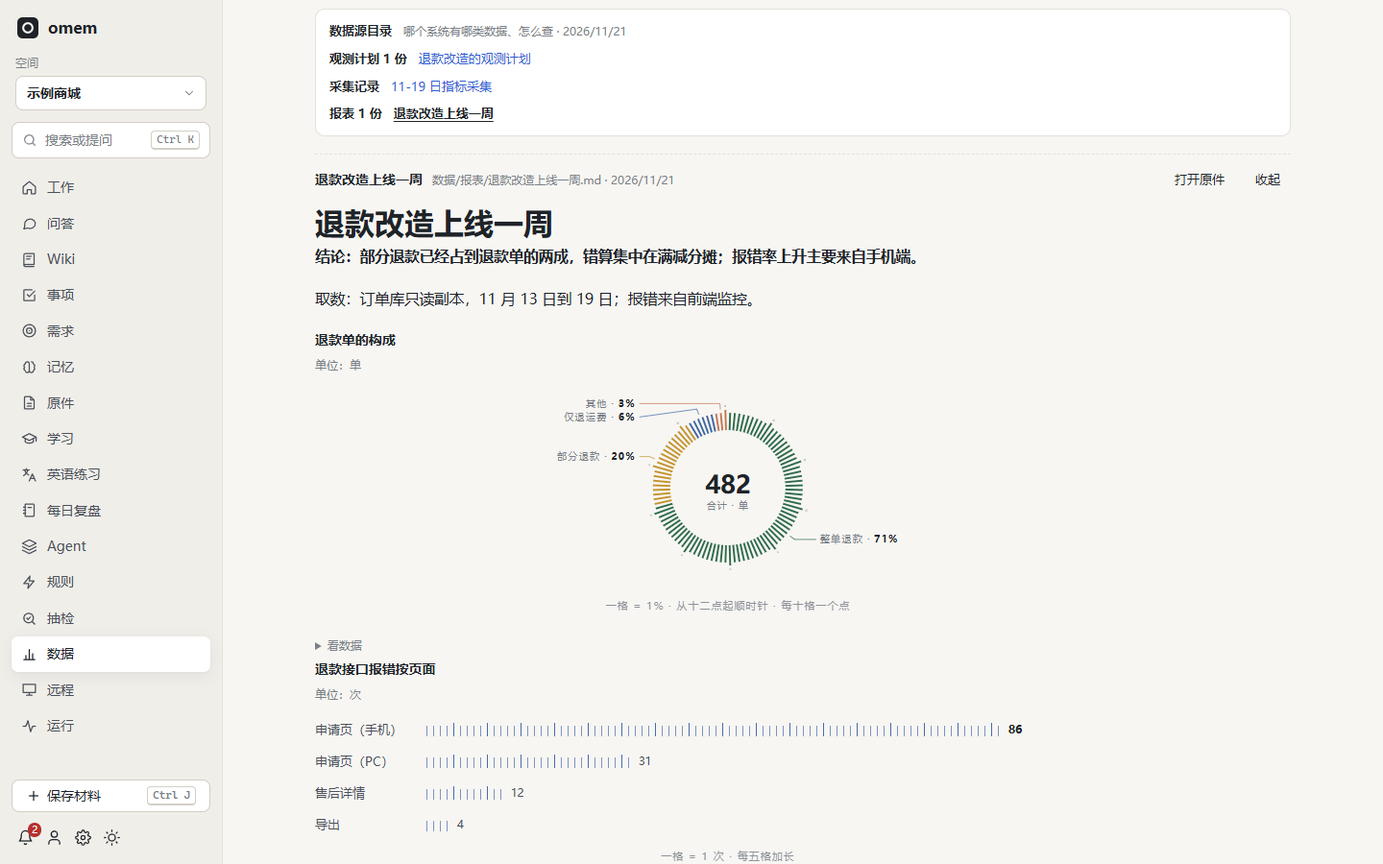
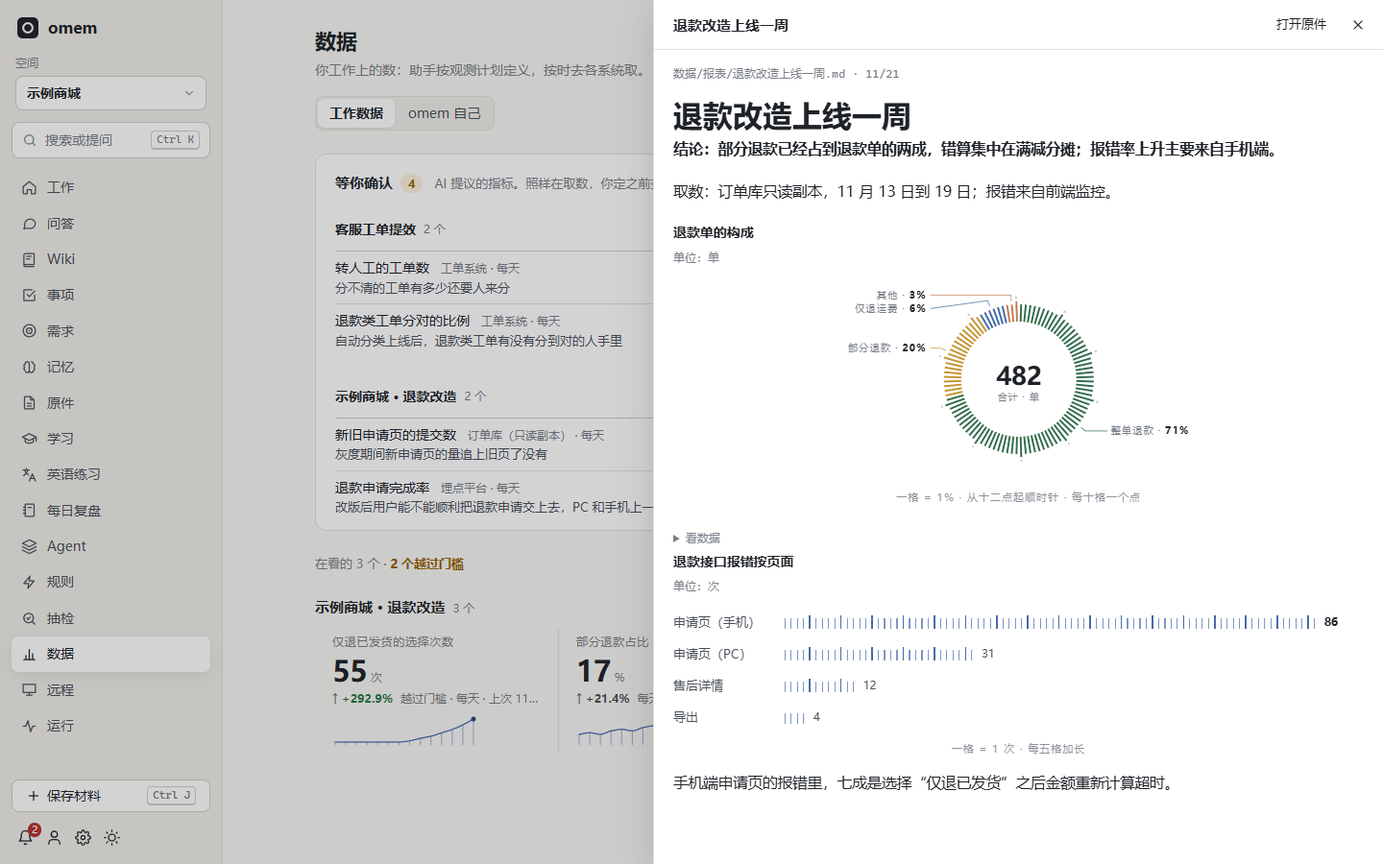
数据页：文档、截图和窄屏细节
- 文档站“数据”一页、README、状态表、变更记录、omem-design 按新的页面骨架、等你确认清单、抽屉和格子写法改。
- 截图 insights、insights-work、insights-report 重拍，新增 insights-detail（抽屉）；报表的截图改为从页头的“报表”打开抽屉。
- 资料链接之间的“·”不再算进按钮的名字；提议清单的行更紧凑，窄屏下组的操作和行的操作左对齐。

diff --git a/scripts/doc-screens.ts b/scripts/doc-screens.ts
@@ -996,28 +996,28 @@ const shots: { name: string; path: string; width?: number; dark?: boolean; space
     await p.waitForTimeout(400);
   } },
   { name: "insights", path: "/insights?tab=omem", space: "personal" },
-  // A proposal opened: its chart by device, why it exists, where it came from, 保留 / 改 / 不要.
+  // One number opened in the drawer: by day, split by scene / space / model / who, then its records.
+  { name: "insights-detail", path: "/insights?tab=omem&detail=usage%3Atotal", space: "personal", prepare: async (p) => {
+    await p.locator(".sheet .splits").waitFor();
+    await p.waitForTimeout(600);
+  } },
+  // The proposals to decide, by line; one opened: its chart by device, why it exists, where it came from, 保留 / 改 / 不要.
   { name: "insights-work", path: "/insights?tab=work", space: "shop", prepare: async (p) => {
-    await p.getByRole("button", { name: /退款申请完成率/ }).click();
+    await p.locator("button.c-name", { hasText: "退款申请完成率" }).click();
     await p.waitForTimeout(900);
-    await p.locator(".group").first().evaluate((el) => {
+    await p.locator(".c-row.on").evaluate((row) => {
+      const el = row.closest(".c-group") ?? row;
       let s: HTMLElement | null = el.parentElement;
       while (s && !(s.scrollHeight > s.clientHeight && /auto|scroll/.test(getComputedStyle(s).overflowY))) s = s.parentElement;
-      const box = el.getBoundingClientRect();
-      (s ?? document.scrollingElement)?.scrollBy(0, box.top - 24);
+      (s ?? document.scrollingElement)?.scrollBy(0, el.getBoundingClientRect().top - 24);
     });
     await p.waitForTimeout(300);
   } },
-  // A report the assistant wrote (a work file under 数据/报表/), its two charts drawn on the page.
+  // A report the assistant wrote (a work file under 数据/报表/), its two charts drawn in the drawer.
   { name: "insights-report", path: "/insights?tab=work", space: "shop", prepare: async (p) => {
-    await p.getByRole("button", { name: "退款改造上线一周" }).click();
+    await p.getByRole("button", { name: /报表/ }).click();
+    await p.locator(".sheet .prose").waitFor();
     await p.waitForTimeout(1200);
-    await p.locator(".report").evaluate((el) => {
-      let s: HTMLElement | null = el.parentElement;
-      while (s && !(s.scrollHeight > s.clientHeight && /auto|scroll/.test(getComputedStyle(s).overflowY))) s = s.parentElement;
-      (s ?? document.scrollingElement)?.scrollBy(0, el.getBoundingClientRect().top - 160);
-    });
-    await p.waitForTimeout(300);
   } },
   { name: "ask-citations", path: `/ask/${t.id}` },
   { name: "wiki-tree", path: "/wiki/shop/refund/cases/partial-shipment-over-refund" },

diff --git a/web/src/components/MetricsBoard.vue b/web/src/components/MetricsBoard.vue
@@ -255,9 +255,9 @@ async function keepAll() {
 a.c-line:hover { text-decoration: underline; text-underline-offset: 3px; }
 .grow { flex: 1; }
 .c-rows { list-style: none; margin: 0; padding: 0; }
-.c-row { display: grid; grid-template-columns: minmax(0, 1fr) 6.5em auto; align-items: center; column-gap: 16px; padding: 8px 0; border-bottom: 1px solid var(--line); min-width: 0; }
+.c-row { display: grid; grid-template-columns: minmax(0, 1fr) 6.5em auto; align-items: center; column-gap: 16px; padding: 6px 0; border-bottom: 1px solid var(--line); min-width: 0; }
 .c-row:last-child { border-bottom: 0; }
-.c-main { display: grid; gap: 2px; min-width: 0; }
+.c-main { display: grid; gap: 0; min-width: 0; line-height: 1.55; }
 .c-main p { margin: 0; }
 .c-top { display: flex; align-items: baseline; gap: 12px; min-width: 0; }
 .c-name { flex: 0 1 auto; font: inherit; font-size: 14px; color: var(--ink); background: none; border: 0; padding: 0; text-align: left; cursor: pointer; min-width: 0; overflow: hidden; text-overflow: ellipsis; white-space: nowrap; }
@@ -283,7 +283,7 @@ a.c-line:hover { text-decoration: underline; text-underline-offset: 3px; }
 @media (max-width: 760px) {
   .confirm { padding: 12px 12px 4px; }
   .c-row { grid-template-columns: minmax(0, 1fr) auto; row-gap: 4px; }
-  .c-acts { grid-column: 1 / -1; }
+  .c-acts { grid-column: 1 / -1; margin-left: -8px; }
   .c-group-head .grow { flex-basis: 100%; height: 0; }
   .c-group-head .btn:first-of-type { margin-left: -8px; }
 

diff --git a/web/src/components/MetricFiles.vue b/web/src/components/MetricFiles.vue
@@ -113,7 +113,7 @@ onBeforeUnmount(() => window.removeEventListener("keydown", onKey));
 
 <style scoped>
 .files { display: flex; flex-wrap: wrap; align-items: baseline; gap: 4px 0; font-size: 13px; color: var(--muted); min-width: 0; }
-.files > * + *::before { content: "·"; margin: 0 8px; color: var(--muted); }
+.files > * + *::before { content: "·" / ""; margin: 0 8px; color: var(--muted); }
 .files a, .link { color: var(--ink-2); text-decoration: none; }
 .link { font: inherit; background: none; border: 0; padding: 0; cursor: pointer; }
 .files a:hover, .link:hover { color: var(--ink); text-decoration: underline; text-underline-offset: 3px; }

diff --git a/site/features/insights.md b/site/features/insights.md
@@ -13,11 +13,13 @@
 
 再往后是“课题”：期间有已交结果的试验时，显示按课题的四种试验结果、新发现及本人的判定、其中有改动的和改后重跑通过或仍然失败的、结束方向和按模型的试验运行次数，数字可回到运行或事项，导出也包含。发现多少不代表做得好坏，不做排名或发现率；按模型等运行条件筛选时，省略不能归属的发现和方向。
 
-页面依次是：用了多少、用在哪、替你挡了多少、给别人带来什么、做得怎么样、编码交付、流程（有走流程的事项时）、课题（期间有试验时）、知识用上了没有、花了多少时间。每一块上面是几个数，下面是按场景、空间、Agent 等分开的条形，几列同单位的数并排成不同颜色的条；每块末尾的“这些数是怎么数的”写明口径。每天任务按场景叠加，每周人数分本人、成员、访客与机器人。后台整理是系统维护知识的工作，定时巡检里没有新动静、安静结束的那些也算在这里；它们默认单列，不计入使用和成本合计；可以打开“包含后台整理”。成功率始终排除整理，只算已完成或失败的运行。
+时间段、和上一段比、筛选、导出在两栏切换的同一行右侧。下面先是四个最关键的数（做了多少件、成功率、用过的人、提醒或替你答了），再是一排可以粘在顶部的节：用量、提醒、回答、编码与流程、知识、运行时长、长期走势，点一个跳过去。每节里依次是：用了多少、用在哪、替你挡了多少、给别人带来什么、做得怎么样、编码交付、流程（有走流程的事项时）、课题（期间有试验时）、知识用上了没有、花了多少时间。每一块默认只放最要紧的一两张图、排行的前八行和几个数，其余点“展开这一节”；口径收在“怎么数的”里。每天任务按场景叠加，每周人数分本人、成员、访客与机器人。后台整理是系统维护知识的工作，定时巡检里没有新动静、安静结束的那些也算在这里；它们默认单列，不计入使用和成本合计；可以打开“包含后台整理”。成功率始终排除整理，只算已完成或失败的运行。
 
-<Shot src="insights" caption="数据页：上面一排数，下面是条形和按天的柱，每个数都能点开看是哪些记录" />
+<Shot src="insights" caption="数据页：上面四个关键的数和节导航，每节先放一两张图，其余展开再看" />
 
-每个数字及图表的数据点都能打开“看明细”，核对记录标识、时间与去向。比例的明细列出分母样本，再从清单回到运行或对应列表。不会显示访客的提问和答案正文。主人能看全部；成员只看自己触发或拥有、且有权阅读的运行。不会给人排效率名次。
+点任何一个数或一根条，右侧打开这个数的抽屉：大数字和上一段比变了多少，每天有几条记录，再按场景、Agent、空间、模型、谁触发、在哪个会话、结果拆开（只有一组的不拆）；点拆分里的一行就只看这一组，标成小胶囊，点胶囊去掉。最下面是记录清单，可搜索，每条写时间、谁触发、用了多久、结果，点标题回到运行或对应列表。链接带着这个数和抽屉里的筛选，可以直接发给别人；Esc 关闭，焦点回到点开它的那个数。不会显示访客的提问和答案正文。主人能看全部；成员只看自己触发或拥有、且有权阅读的运行。不会给人排效率名次。
+
+<Shot src="insights-detail" caption="点一个数：按天的记录、按场景和空间等拆开，下面是可搜索的记录" />
 
 ## 工作上的指标
 
@@ -26,17 +28,17 @@
 - 每个指标写清它回答你的什么问题（“部分发货改造上线后，退款接口有没有更容易出错”）、在哪个系统、怎么查（读系统靠你数据目录里的技能），可以挂到事项或关注上，设成按小时、每天或每周自动取；变化超过门槛时告诉你，并写进事项时间线和关注的会话。
 - 需求事项可以有一份观测计划（内置技能 `observation-plan`）：先写下你对这件事真会问的几个问题，再定上线前要埋的点、上线后看哪些报错和使用指标、改版或迁移的新旧对比和护栏指标；计划里的指标定义到事项上，每个都指回计划里的那一节。
 - 助手可以盘点一份数据源目录（内置技能 `data-sources`）：哪个系统有哪类数据、对应哪些产品和服务、怎么查。
-- omem 自己的用量也每天存一份（运行、时长、各 AI、回答被判成什么和谁判的、案例、新会话），原始记录过期以后历史还在；在“omem 自己”一栏最下面的“每天存下的用量”里看曲线。
+- omem 自己的用量也每天存一份（运行、时长、各 AI、回答被判成什么和谁判的、案例、新会话），原始记录过期以后历史还在；在“omem 自己”一栏的“长期走势”里看。一个用量一格（分好几类的数写合计），点开是每天的合计和按类型、结果、经由等各拆一张。
 
 ### 指标从哪来，由你定
 
-你在对话里亲口让助手加的指标直接生效。助手在后台定的（写观测计划、看一条线的时候）只是**提议**：卡片上标“待确认”，页面顶上写“共 N 个指标是 AI 提议的，等你确认”，点它只看待确认的。提议照样按时取数，等你决定时已经有真实的数；但它变化再大也不通知你、不写进时间线。
+你在对话里亲口让助手加的指标直接生效。助手在后台定的（写观测计划、看一条线的时候）只是**提议**：它们都在“工作数据”最上面的“等你确认”清单里，按工作线分组，一行一个指标：名字、从哪个系统取、多久取一次、它想回答什么问题、已经取到的最新值，行尾“保留 / 不要”。组名旁边可以“这一组都保留 / 都不要”，清单顶上有“全部保留”。定完的从清单里消失，留下的出现在下面。提议照样按时取数，等你决定时已经有真实的数；但它变化再大也不通知你、不写进时间线。
 
-点开一个提议，上面一块写着它想回答什么问题，旁边三个按钮：
+点一个提议的名字，在这一行下面展开它的图和定义，右上三个按钮：
 
 - **保留**：从此按门槛告诉你变化。
 - **改**：改名字、单位、它回答的问题、取数频率、门槛、哪个方向是好的、怎么画；提议可以“保存并保留”，也可以只保存先不定。
-- **不要**：不再取数，也不在这里显示。可以写一句为什么，助手以后提指标前会读到你最近留下了哪些、不要了哪些和理由，同一个指标不会再提。
+- **不要**：不再取数，也不在这里显示。可以写一句为什么（一组一起不要时也可以写一句，不写也行），助手以后提指标前会读到你最近留下了哪些、不要了哪些和理由，同一个指标不会再提。
 
 升级到这一版时，以前助手定义的工作指标都没有经过你确认，所以都先变成提议；omem 自己的用量不受影响。
 
@@ -49,17 +51,17 @@
 - 最近一次的构成：画成表盘；
 - 只列数、只看最新的数：不画图。
 
-只有一两天的数时不画几乎空白的线，直接写“只有 1 天的数：11-19 新 1,284 单 / 旧 2,906 单”；还没取过的写清楚从哪个系统、多久取一次、第一次大概什么时候。图下面依次是为什么看、说明、来源、怎么查、取数时间、门槛、挂在哪件事上、来自哪份观测计划（点开是计划里那一段）、是谁定的。
+只有一两天的数时不画几乎空白的线，直接写“只有 1 天的数：11-19 新 1,284 单 / 旧 2,906 单”；还没取过的写清楚从哪个系统、多久取一次、第一次大概什么时候。图在左边，右边依次是为什么看、说明、从哪来、怎么查（长的先收起）、基线和门槛、多久取一次、挂在哪件事上、来自哪份观测计划（点开是计划里那一段）、是谁定的；分维度记的指标，下面按每个维度各拆一张（30 天合计，比例取平均）。分了好几类的计数，格子上和图上都是合计。
 
-<Shot src="insights-work" caption="工作数据：点一个助手提议的指标，下面按它的画法出图，写着它想回答的问题，可以保留、改或不要" />
+<Shot src="insights-work" caption="工作数据：上面是等你确认的提议，按工作线分组；点一个，下面按它的画法出图，右边写着它想回答的问题和从哪来" />
 
 ### 报表：好几张图一起看
 
-要一起看好几张图的分析（新旧对比、构成、排行、表格），助手写成报表：工作文件放在 `数据/报表/` 下，结论在前，每个结论旁边放图和取数口径。“工作数据”上面的文件栏列出报表，点一份就在下面直接画出来；挂在工作线上的报表也会出现在那条线的“数据”一栏。别的工作文件里带图表块的，也算报表列在这里。
+要一起看好几张图的分析（新旧对比、构成、排行、表格），助手写成报表：工作文件放在 `数据/报表/` 下，结论在前，每个结论旁边放图和取数口径。“工作数据”右上角那一行小字里点“报表”，抽屉里列出报表，点一份就在抽屉里直接画出来；挂在工作线上的报表也会出现在那条线的“数据”一栏。别的工作文件里带图表块的，也算报表列在这里。
 
 <Shot src="insights-report" caption="报表：助手写在 数据/报表/ 下的工作文件，里面的构成和排行在页面上直接画出来" />
 
-“工作数据”一栏把所有工作指标放在一页：按指标挂的工作线分组（挂在需求或缺陷上的算到它所在的线），组名旁边写有几个待确认；每个指标写最新值、和基线比的变化、来源、取数频率和一条小走势，越过门槛的会标出来，7、30 或 90 天可切。上面是数据源目录、观测计划、最近的采集记录和报表，点开就是对应的原件。工作线页的“数据”一栏是同一块板，只放这条线和下面各项的指标和报表。
+“工作数据”一栏把所有工作指标放在一页：上面是等你确认的提议，下面是在看的指标，按挂的工作线分节（挂在需求或缺陷上的算到它所在的线，节名点开是那条线）。一个指标一格，格子一样大：名字、最新值、和基线比的变化或“每天 · 上次 11/20”、一条小走势，越过门槛的会标出来；还没取到的写“还没取到 · 下次 02:50”。点开后的图可以切 7、30 或 90 天。数据源目录、观测计划、采集记录和报表在页头右侧一行小字里，点开是抽屉里的清单。工作线页的“数据”一栏是同一块板，只放这条线和下面各项的指标和报表。
 
 ## 数字该怎么读
 

diff --git a/docs/v2/status.md b/docs/v2/status.md
@@ -5,6 +5,7 @@
 
 | 能力 | 状态 | 入口 |
 | --- | --- | --- |
+| 数据页重做：工作数据上面是一张“等你确认”清单（按工作线分组、一行一个提议：名字、来源和频率、why、最新值、保留 / 不要；“这一组都保留 / 都不要”“全部保留”走 `POST /api/metrics/decide`，一组一次、有一个不能改就都不改），在看的指标按线分节，格子同一形状（`charts.ts` `MetricGroup.even`、`MetricItem.pending`），一个指标一格：分维度的计数显示合计（`metrics.ts tileSeries`，`GET /api/metrics` 多 `groups`，取最近六周的点）；点开的详情（`MetricDetail.vue`）左图右定义、下面按每个维度拆开；数据源目录等收成页头一行小字和抽屉（`MetricFiles.vue`，报表在抽屉里画）。omem 自己：页头一行放时间段 / 比较 / 筛选 / 导出，四个关键的数，可粘在顶部的节导航，每节先放一两张图、排行前八行和六个数，其余展开；“每天存下的用量”并进“长期走势”。点一个数打开右侧抽屉（`InsightDrawer.vue`，`GET /api/insights/breakdown?metric=…&pick=dim:value&q=&offset=`）：上一段比较（没开比较也算）、每天的记录数、按场景 / Agent / 空间 / 模型 / 谁触发 / 会话 / 结果拆开（只有一组的不给，点一行加成抽屉筛选）、带谁触发 / 用时 / 结果的记录；和明细同一套记录与可见性，用报告缓存里的运行，段外运行分批补读。omem 运行数的 `trigger` 维度只存 via，旧的整段触发信息读时按 via 合并 | 已实现（2026-11-21）；`test/insights-breakdown.test.ts`、`test/metrics.test.ts`（trigger / tile / decide 三条）；截图 `insights`、`insights-work`、`insights-report`、`insights-detail`；常驻服务器上还是旧接口，抽屉和批量确认只在演示数据上验过 | `src/insights/insights.ts`（`insightBreakdown`）、`src/data/http.ts`、`src/data/metrics.ts`、`src/data/omem-usage.ts`、`web/src/views/Insights.vue`、`web/src/components/MetricsBoard.vue`、`MetricDetail.vue`、`MetricFiles.vue`、`InsightDrawer.vue`、`web/src/lib/metrics.ts` |
 | 在跟的问题（docs/v2/mentions.md“回完接着跟”）：关注的处理和“有人找你”的处理看完一个群或话题里有人求助的问题后用 `track_problem` 记状态（`listen_problems`：还在查 / 在等 / 卡在本人 / 已结，已查清的、在等谁、怎样算完、结论、回查时间，一处一条，结了再来新问题另起一条）；关注的预筛和处理材料带这些问题，按问题而不是按消息判断有没有新信息；“有人找你”的问题所在的群有新消息时排一条 `problem-follow`（十分钟后，每个问题一条），按问题状态预筛（场景 watch），要看才交回原来那次处理（同一会话，`resumeFromRun`），同一处没结的问题让后来找本人的消息也并进那次处理；`recheck_after` 到点由心跳叫回查；本人不发草稿时不再跟；规则的“交给关注”可选 `adopt` 把触发的群收进关注，问题都结了、安静三天后放回（`releaseAdopted`）；listen-coach 的任务带“跟过的问题”，场景多 `follow`“回完怎么跟”；分诊后再查一次规则，分诊期间触发的规则优先 | 已实现（2026-11-20）；`test/listen-problems.test.ts`、`test/lark-mentions.test.ts`（假 ACP Agent）；真实模型和飞书没跑过 | `src/channels/listen-problems.ts`、`src/mentions/mentions.ts`、`src/channels/lark-watch.ts`、`src/agents/sessions.ts`（`watchedNote`）、`src/channels/listen.ts`（`adoptChat`、`releaseAdopted`）、`src/rules/actions.ts`、`src/channels/listen-coach.ts`、`roles/listen-coach.md`、`web/src/views/Rules.vue` |
 | 做梦读关注和数据、向本人提建议：任务多一节“关注、自动建的事项、规则和指标”——每个有新动静的在用关注（上次整理以来更新过的会话摘要、新案例按本人取舍计数、本人纠正几个、两三个例子纠正在前、经验改没改、现在的参数一行），其余只列名字；本人对自动建的事项按创建者的留下 / 不要和例子；每条触发过的规则做了 / 让开 / 失败和最近一次失败；上次以来新取的点里超过门槛的指标；本人近况和已经有事情型关注、指标的事项；最近一周做梦发过的通知。有新案例、自动事项取舍、规则失败或指标超门槛时，没有记忆和事项变化也照样整理。dreamer 第 8 条：关注的参数、规则或流程、技能草稿、事情型关注、观察方案，一晚最多三条，放进一条“夜间整理的建议”通知，本人回复后由主助手照改，不自动改任何设置；dreamer 多了只读的 `list_rules`、`metric_read` | 已实现（2026-11-20）；`test/proactive-material.test.ts`；真实模型没跑过 | `src/agents/proactive.ts`、`src/agents/jobs.ts`（dream）、`roles/dreamer.md` |
 | 指标的来历、确认和画法（`src/data/metrics.ts`）：`metrics` 新列 `why`、`plan_ref`、`defined_by`（owner / agent / omem）、`defined_run`、`confirmed_at`、`dropped_at`、`owner_note`、`view`，状态多 `proposed`、`dropped`；迁移（`db.ts METRIC_ORIGIN_MIGRATION`）把以前的工作指标改成提议，omem 自己的算已确认。`metric_define` 按 `ownTurn` 分：本人这一轮 / 本人的工具 / 网页直接生效，其余新建的是提议（新建要写 `why`），后台不能留下、不要或要回本人不要过的（409 带本人的理由）；提议照样取数（`collectDue` 取 active + proposed），越过门槛不通知、不写时间线；线结束时提议一起停，重新打开仍是提议（`items/lifecycle.ts`）。本人的取舍由 `metricLessons` 交给 `metric_define` 的结果、`metric_read` 的列表和看线的运行（`channels/listen-assist.ts`，act 档）。`view`：line / area / bar / stack / compare（`compareBy` 按维度分组，组内多种维度组合相加、比率类取平均）/ pie / table / number，`ratio` 另画占比，`focus` 是卡片那一组；`readMetric` 返回 `kind`、`charts`、`table`、`latest`，`metric_read(chart)` 给全部图表块。接口：`GET /api/metrics` 多 `figure`、`latest`、`nextAt`、`plan`，`item=` 含下面的事项、`dropped=1` 才列不要的；`PUT /api/metrics/:id` 可改名字、单位、why、门槛、基线、画法，`status` active / paused / dropped（带 `note`）；`GET /api/metrics/files` 多 `report`（`数据/报表/` 下或带 ` ```chart ` 块的工作文件），可按 `item` 过滤。网页：`MetricsBoard` 的数字本身是按钮（`charts.ts` 的 `metricsElement` 多 `select`，`MetricItem` 多 `tag`），详情在这一排下面展开，再点或 Esc 收起；`MetricRow` 只在显示的内容变了才重画、只有数变了才重新数一遍；按画法出图，一两天的写成文字，没取过的写何时取；提议有“保留 / 改 / 不要”；报表在文件栏里点开、Markdown 画图；`ItemMetrics` 用同一块板（`item` 范围） | 已实现（2026-11-21）；`test/metrics.test.ts`（where metrics come from…）；截图 `insights-work`、`insights-report`；真实模型没跑过提议和取舍 | `src/data/metrics.ts`、`src/data/http.ts`、`src/agents/tools.ts`（metric_define）、`web/src/components/MetricsBoard.vue`、`web/src/components/charts/MetricRow.vue`、`packages/plugin-sdk/charts.ts` |

diff --git a/README.md b/README.md
@@ -32,7 +32,7 @@
 
 登记执行环境时可以选“派给设备”：这个环境的试验交给你配对过的另一台设备，它按远端地址找到自己的那份仓库，在自己的工作区里切到方向确认时的提交，用自己的模型跑完，把结果和证据文件送回这里的台账。只对你自己的设备开放；那台离线或出错时再派一次，之后记“跑不了”。[派给另一台设备](docs/v2/studies.md#第四期把试验派给另一台设备)。
 
-**做了什么，有数可查。** “数据”页分两栏：“工作数据”是你工作上的指标，按工作线分组，连着数据源目录、观测计划和助手写的报表；每个指标写着它回答什么问题、从哪份计划来，助手在后台提的先标“待确认”，你点开选保留、改或不要；“omem 自己”按时间段列出 omem 做了多少件事、用在哪、替你挡了多少找你的消息、别人直接问机器人多少次、做得怎么样、编码交付、知识用上了没有、花了多少时间。每个数都能点开看是哪些记录，也能导出给周报用。系统自己的整理另外算；没有基线就不推算省了多少时间。[怎么读这一页](site/features/insights.md)。
+**做了什么，有数可查。** “数据”页分两栏：“工作数据”是你工作上的指标，按工作线分组，连着数据源目录、观测计划和助手写的报表；每个指标写着它回答什么问题、从哪份计划来，助手在后台提的放在最上面一张“等你确认”的清单里，一行一个，可以一个个、一组或全部保留或不要；“omem 自己”先是几个关键的数和一排节导航，再按时间段列出 omem 做了多少件事、用在哪、替你挡了多少找你的消息、别人直接问机器人多少次、做得怎么样、编码交付、知识用上了没有、花了多少时间和长期走势。点任何一个数，右侧抽屉里是它按天的记录、按场景 / 空间 / 模型 / 谁触发等拆开的样子和记录本身，也能导出给周报用。系统自己的整理另外算；没有基线就不推算省了多少时间。[怎么读这一页](site/features/insights.md)。
 
 **交办编码，多维度评审。** 编码 Agent 把需求拆成修改项，一项一组提交；评审负责人按改动决定这次让功能、业务、架构、历史、规范、精简哪几个评审项看、各看什么；评审问题变成修改项自动改，由提出它的评审项验证，改坏了自动回退重做；和需求、实际用法无关的边界问题记成“以后再做”，不让交办在细枝末节里打转。只有业务和功能上的取舍才问你，问的时候别的项照做。需求做完就可以先推送验证，推送后接着改，下次在同一分支交办时接上没做完的项。每一项都能单独看改动、单独回退。 仓库还能从反复采纳的评审问题里学到约定：同类问题在两次交办出现后默认启用，能写成模式的由宿主检查新增行，其余交给编码和评审遵守；你在空间设置里维护。
 
@@ -640,7 +640,7 @@ src/studies   课题：方向 / 试验 / 发现台账、提案对账与本人选
 src/designs   方案：决定、意见与版本（store.ts）、给 Agent 读的 Markdown（render.ts）、评估别人的方案（assess.ts）、交办里的方案阶段与确认（work.ts）、按决定汇总改动（changes.ts）
 src/wiki      统一生成入口、页面文件、链接与引用索引、过期检测、写入检查与发布前核对（checks.ts、verify.ts）、页面的未决问题与旧页面迁移（questions.ts、migrate.ts）；问题的阅读次数、候选排序、过期与重开（questions.ts）
 src/quality   每晚抽检助手自主写入的页面和定级；页面按运行类型统计与加严、交回修改（audit.ts），错级交本人复核（levels.ts）
-src/insights  数据页：固定场景表、按权限与期间聚合、记录明细、三分钟缓存、Markdown/CSV 导出（不含消息正文）
+src/insights  数据页：固定场景表、按权限与期间聚合、记录明细与拆分（抽屉）、三分钟缓存、Markdown/CSV 导出（不含消息正文）
 src/learn     FSRS 卡片、学习目标
 src/plugins   插件：清单与加载（内置与数据目录）、信任（trust.ts）、服务与流（services.ts）、插件档案、插件记录（plugin_records）、设置、内容块（交出、提交、判分）与宿主的表单和图表、插件接口与页面（docs/v2/plugins.md）；场景包导入（contributions.ts：规则、MCP、流程）、打包（pack.ts）、插件渠道（channels.ts）；界面插槽（slots.ts）、开发目录链接（links.ts）、安装与源码构建（install.ts）
 src/agents    ACP/CLI 运行、后端网络条件（network-policy.ts）与 IPv6 / DNS 诊断（network-diagnostics.ts、network-request.ts）与 Agent 目录（catalog.ts）、成员自己的 AI 账号（accounts.ts：账号目录、登录、按发起人选账号、插件登录的续签；agent-logins.ts：插件登记的登录方式；sandbox.ts：bubblewrap 检查和启动参数）、助手（assistants.ts：每个机器人是谁的、每天次数、网页绑定）、MCP 工具、角色、会话与命令、档案与技能目录编辑（specs.ts）、技能分组与接管 Agent 自带的技能目录（skill-groups.ts、agent-skills.ts）、临时 AI 选型校验（execution.ts）、后台会话复用与上下文轮换（background-sessions.ts）、后台任务、交办编码与复用工作区（workspaces.ts）、交办工作区的预览（previews.ts）、运行产物（artifacts.ts）、编码前检查（pre-check.ts）与文件的历史（code-history.ts）、应用后的 Git 提交与推送（code-git.ts）；豆包 OpenAPI 后端在 doubao.ts（鉴权与设备码）/ dispatch.ts；夜间复盘（replay.ts 选题、两臂、检查、评判、改动，replay-view.ts 回到提问时）；本人此刻与近况的注入（owner-now.ts）、工作近况与人物卡（work-state.ts、每晚整理 work-state-job.ts）；做梦和复盘读的关注、自动建事项、规则和指标的近况（proactive.ts），周报（weekly-report.ts）；运行的范围与相关运行（run-scope.ts）、发出前复核和运行中送达本人的话（awareness.ts）；每小时标注复核（jobs.ts、roles/note-reviewer.md）

diff --git a/.repo-review/wiki/reference/changes-since-2026-10-13.md b/.repo-review/wiki/reference/changes-since-2026-10-13.md
@@ -17,6 +17,17 @@ updated: 2026-11-21
 
 这个文件超过四百行左右时，把最早的一批整节移到归档里（没有合适的就新建一个按时间段命名的文件，并在上面加一行）。
 
+## 数据页重做：等你确认的清单、一个指标一格、点一个数打开抽屉（11-21）
+
+- 工作数据：`web/src/components/MetricsBoard.vue` 重写。AI 提议的指标是上面一张“等你确认”清单，按工作线分组，一行一个（名字、来源和频率、why（没有就用说明）、最新值），行尾保留 / 不要；组标题“这一组都保留 / 都不要”，清单顶上“全部保留”。批量走新接口 `POST /api/metrics/decide {ids, status: active|dropped, note?}`（`src/data/http.ts`，同一个事务，有一个读不到或不能改就都不改）。在看的指标按线分节，`MetricRow` 加 `even`（`charts.ts` `MetricGroup.even`：标签最多两行、下面一行小字省略、格子按 210px 自动排），没有数的格子用 `MetricItem.pending` 写“还没取到 · 下次几点”。
+- 一个指标一格：`src/data/metrics.ts tileSeries`——有 `compareBy` 时是 focus 那组，只有一组就是那组，计数（和 omem 自己的数）是各组合计，比例类是最新那组并写“共 N 组，点开比较”；`GET /api/metrics` 多 `groups`，取最近六周的点（原来是最近 120 个点，分维度多的只够几天）。`readMetric` 一次最多读 6000 个点。
+- 详情 `web/src/components/MetricDetail.vue`：左图右定义（为什么看、说明、从哪来、怎么查（长的收起）、基线、多久取一次、挂在、观测计划、谁定的、画法），下面每个维度一张 `RankBars`（合计或平均）；分维度的计数没指定 compareBy 时画每天合计；保留 / 改 / 不要、暂停在右上；7 / 30 / 90 天在详情里切。omem 自己的维度名换成本人的话（`web/src/lib/metrics.ts dimName / dimValue`）。
+- 资料：`web/src/components/MetricFiles.vue`，页头右侧“数据源目录 · 观测计划 N · 采集记录 N · 报表 N”，点开是抽屉里的清单，报表在抽屉里用 Markdown 画图；工作线页的“数据”一栏里也用它。
+- omem 自己：`web/src/views/Insights.vue` 重写。页头同一行右侧是时间段、和上一段比、筛选、导出；四个关键的数（`KEY`）；可粘在顶部的节导航（用量 / 提醒 / 回答 / 编码与流程 / 知识 / 运行时长 / 长期走势，`CHAPTERS` 把报告的节归进去，认不出的进“其他”）；每节默认一两张图、排行前八行、六个数（已在顶上的不重复），其余“展开这一节”；口径收进“怎么数的”；空间显示名字。提醒一节留了 `<!-- NotifyEffect 接在这里 -->`。
+- 抽屉：`web/src/components/InsightDrawer.vue`，新接口 `GET /api/insights/breakdown?metric=&<筛选>&pick=dim:value&q=&offset=`（`src/insights/insights.ts insightBreakdown`，权限 self）。返回这个数、上一段的值（报告没比较时另算紧邻的一段）、每天的记录数、按 scene / profile / space / model / by / chat / status 拆开（每种前八，只有一组或一组加“没记下”的不给）、抽屉筛选、带 `by`（你 / 成员名 / 渠道加 id 末四位）、`seconds`、`result` 的记录（新的在前，一页 100）。记录和 `/api/insights/records` 同一份（报告缓存里的 `records`），运行从缓存的 `runs` 找，记录点到的段外运行每 500 个一批补读；通知、复盘、抽检的记录带上所属运行（`RecordRef.run`）。页面上数字的链接改用页面自己的查询加 `detail`，打开抽屉不再重算报告，Esc 后焦点回到那个数。
+- omem 运行数（`src/data/omem-usage.ts`）的 `trigger` 维度只存 via；以前存的整段触发信息（带人名、群名）在 `metricPoints` 读时换成它的 via，并和同一天同一组合的点相加。
+- 演示数据（`scripts/doc-screens.ts`）：客服工单线上加两个提议；`--serve` 可用 `DEMO_PORT` 固定端口。截图 `insights`、`insights-work`、`insights-report` 重拍，新增 `insights-detail`。
+
 ## 关注页重排、线的群由本人定、观察中的线（11-21）
 
 - 关注页 `web/src/views/ListenDetail.vue` 重写：标题右边是开关和删除，一行概况，群收成“N 个群”（点开是名字和最近一条消息多久前，取自 `/api/lark/captured`），原来页内的锚点导航换成标签页 在聊什么 / 经验和案例 / 记忆 / 处理记录 / 设置（`?tab=`）；群的页面是概况、在哪些关注里，再是 案例 / 记忆。嵌在线页面里只有开关和 设置 / 经验和案例 的切换，线页面的这个标签改叫“关注设置”。
